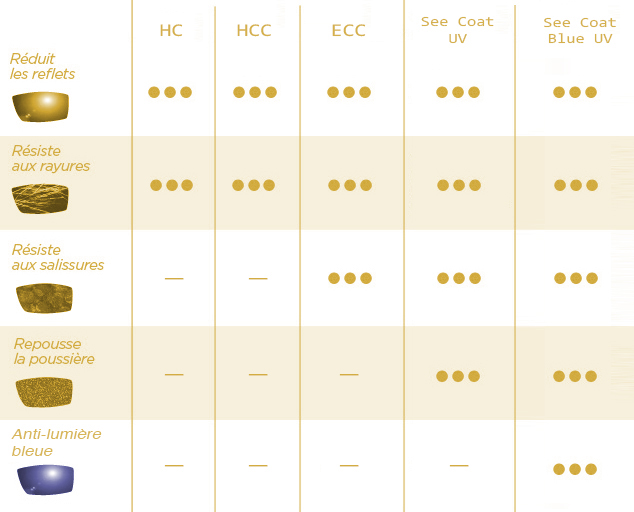
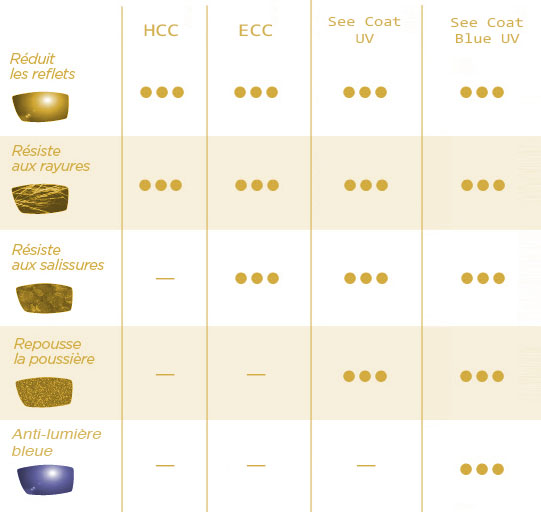
fix nikon, remove HC

diff --git a/assets/js/script.js b/assets/js/script.js
@@ -18,16 +18,6 @@ var all = {
         img: "images/nikondoc.jpg",
         products: [
         {
-            code: 'HC',
-            name: 'HC (Hard Coat)',
-            options: [
-                {name:'HC - indice 1.5', price: 100},
-                {name:'HC - indice 1.56', price:100},
-                {name:'HC - indice 1.59', price: 100},
-                {name:'HC - indice 1.6', price: 100}
-            ]
-        },
-        {
             code: 'HCC',
             name: 'HCC (Hard Clear Coat)',
             options: [
